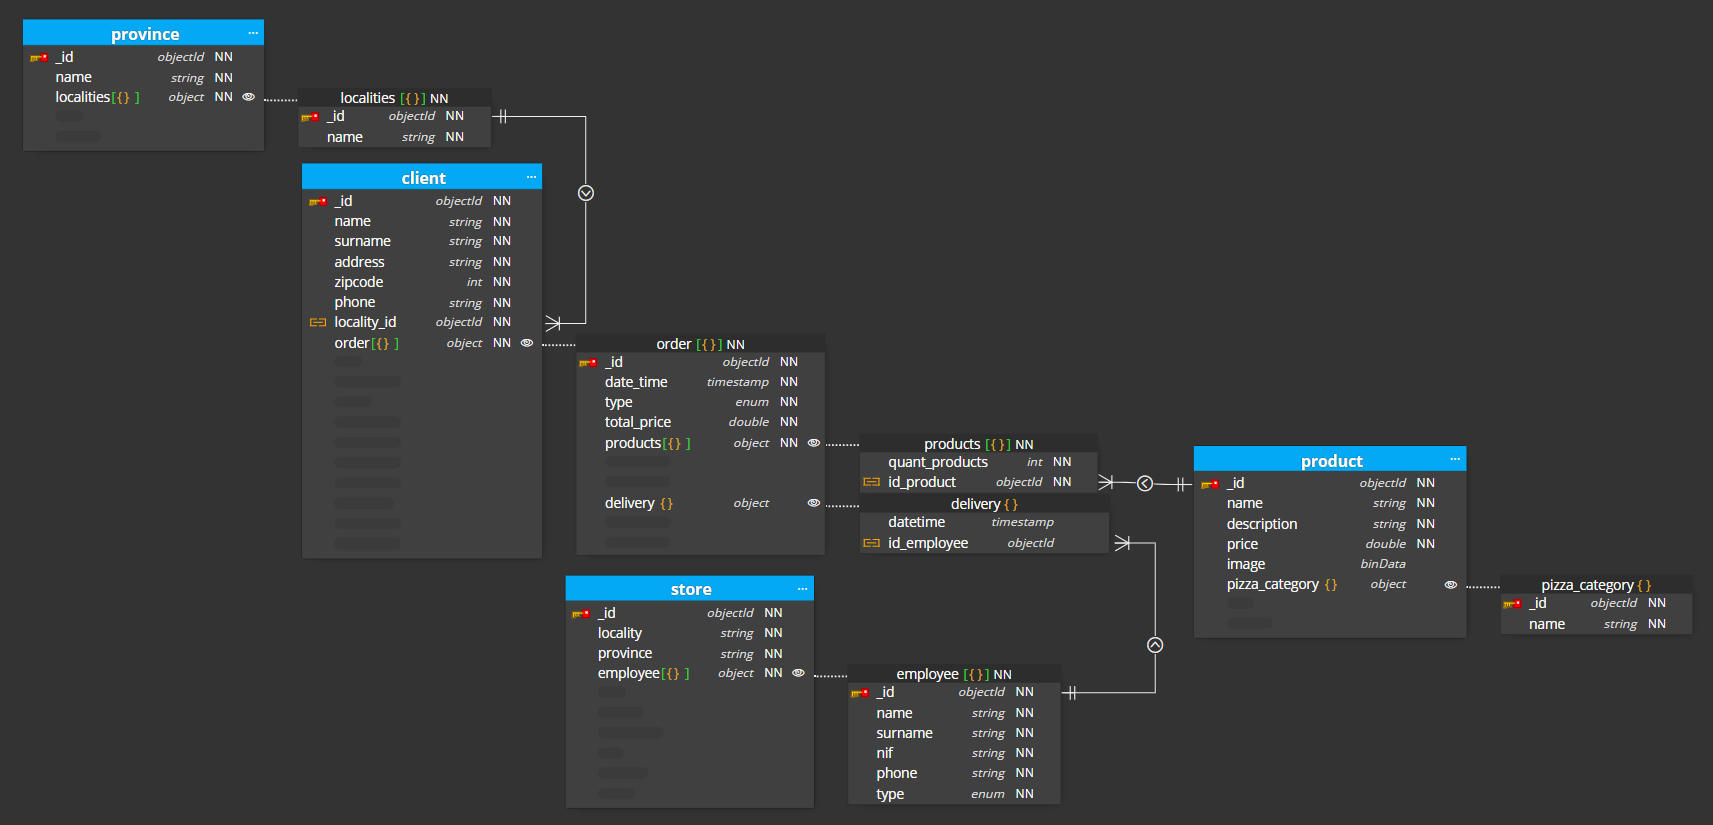
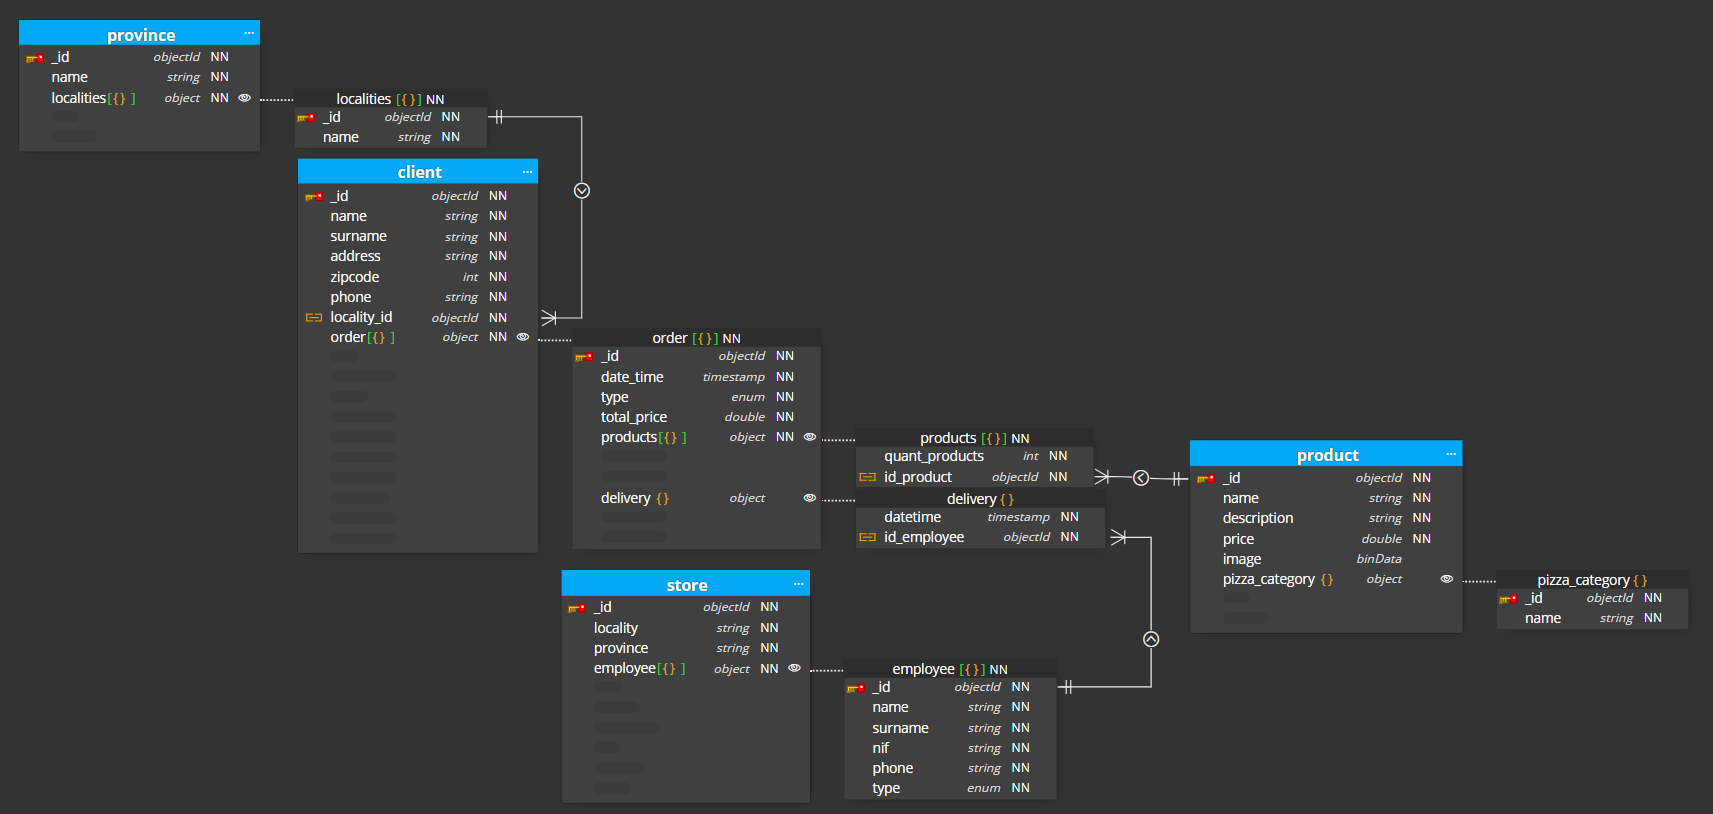
updated client-order-delivery object

diff --git a/lvl1/pizzeria_script.js b/lvl1/pizzeria_script.js
@@ -2,7 +2,7 @@
 db.createCollection( 'client', {validator: {$jsonSchema: {bsonType: 'object',title:'client',required: [         'name',          'surname',          'address',          'zipcode',          'phone',          'locality_id',          'order'],properties: {name: {bsonType: 'string'},surname: {bsonType: 'string'},address: {bsonType: 'string'},zipcode: {bsonType: 'int'},phone: {bsonType: 'string'},locality_id: {bsonType: 'objectId'},order: {bsonType: 'array',items: {
 title:'object',required: [         'date_time',          'type',          'total_price',          'products'],properties: {date_time: {bsonType: 'timestamp'},type: {enum: ['delivery', 'pick-up']},total_price: {bsonType: 'double'},products: {bsonType: 'array',items: {
 title:'object',required: [         'quant_products',          'id_product'],properties: {quant_products: {bsonType: 'int'},id_product: {bsonType: 'objectId'}}}},delivery: {bsonType: 'object',
-title:'object',properties: {datetime: {bsonType: 'timestamp'},id_employee: {bsonType: 'objectId'}}}}}}}         }      },
+title:'object',required: [         'datetime',          'id_employee'],properties: {datetime: {bsonType: 'timestamp'},id_employee: {bsonType: 'objectId'}}}}}}}         }      },
 autoIndexId:true
 });  
 
